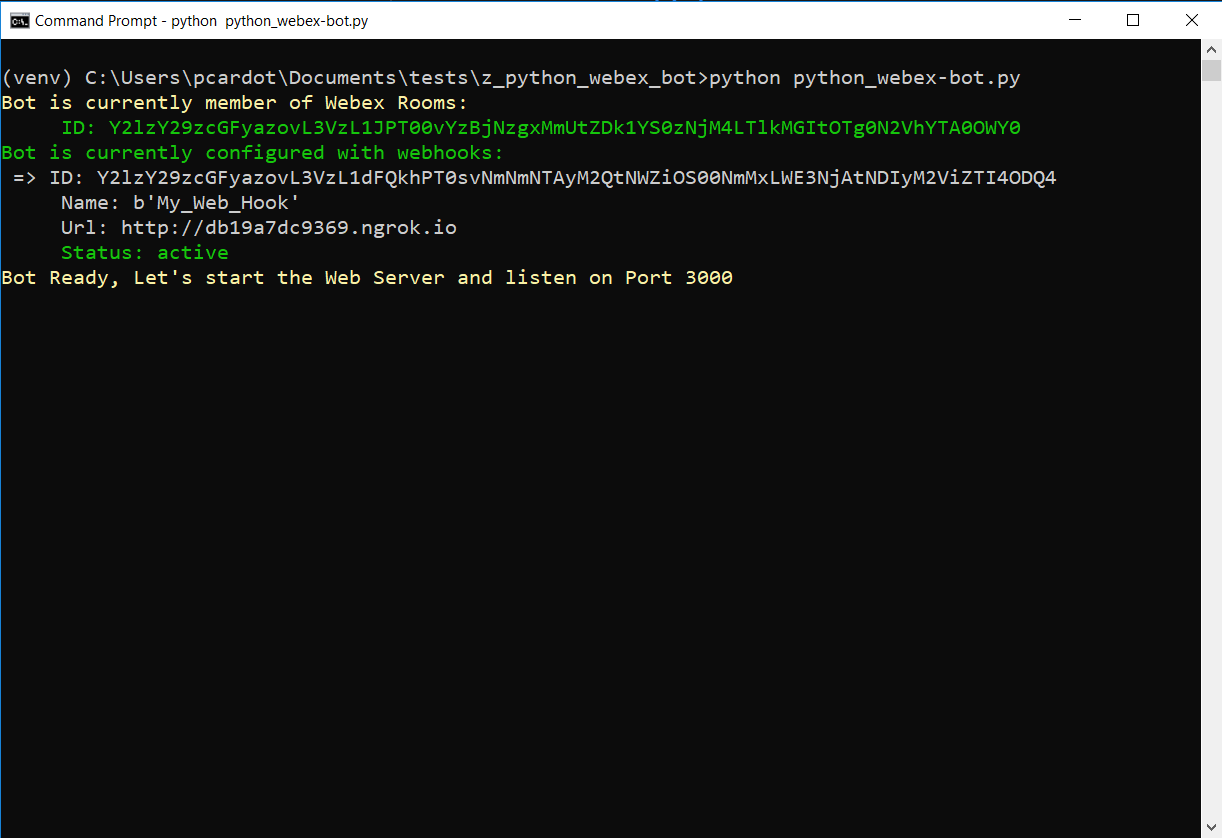
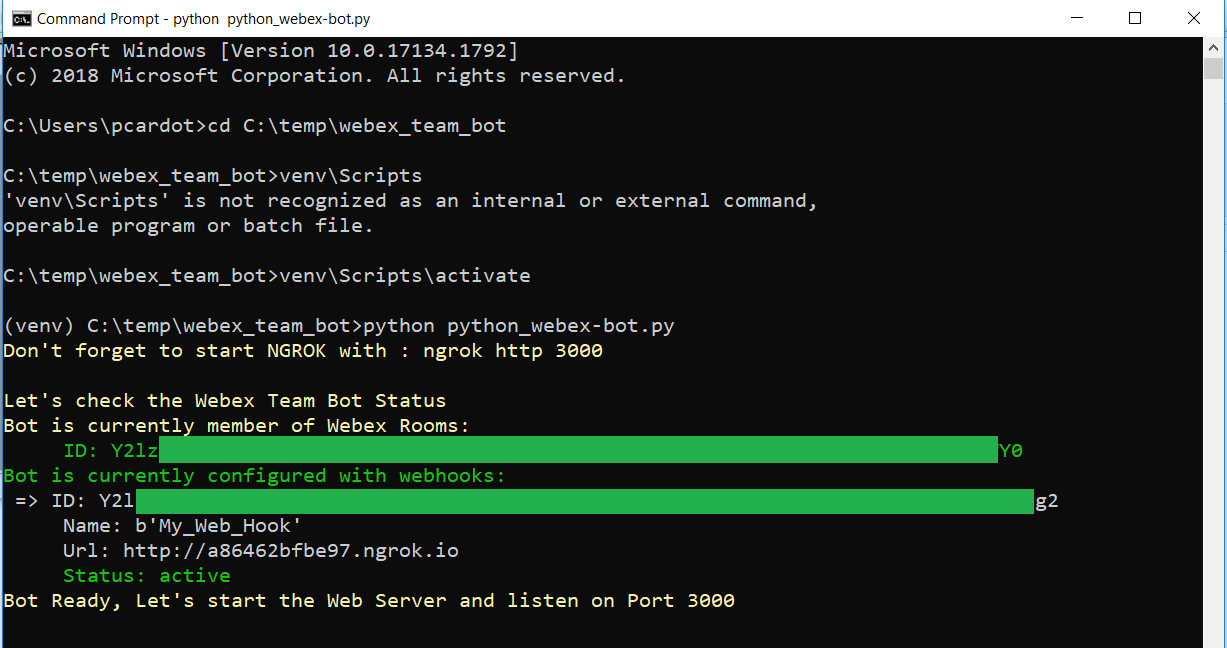
readme update

diff --git a/readme.md b/readme.md
@@ -4,8 +4,10 @@ In this repo you will find instructions for :
 
 - Creating a Webex Team Bot 
 - Adding a Webhook to your Webex Team Bot.
-- Installing a Pedagogic Python Web logic for your bot. Which will help you understand step by step how everything works
-- Interact with your bot thru it's own Webex Team Room.
+- Installing a Pedagogic Python Web logic to your Webex bot. 
+- Interact with your bot through it's own Webex Team Room.
+
+The goal of this article is mainly help you to understand how it work and how to start quickly.
 
 # Create a Webex Team Bot
 
@@ -171,24 +173,32 @@ or
 	python -m venv venv 
 	venv\Scripts\activate
 
-### clone the relay module code
+### clone the bot logic code
 
 Then clone the code :
 
-    git clone 
+    git clone https://github.com/pcardotatgit/Webex_Team_Chat_Bot_Python.git
 
-Change directory to the Relay Module folder:
+Change directory to the bot logic folder:
 
-    cd tr-05-serverless-cybercrime-tracker
+    cd Webex_Team_Chat_Bot_Python
 
 ### Install Python Modules
 
     python -m pip install --upgrade pip
     pip install -r requirements.txt
 
-## Edit config.py
+## Edit the config.py initialization file
 
-**config.py** is an variable file that contains Your Webex Team Bot detail. Edit the file and assign the correct values to the listed variables
+**config.py** is an init file that contains Your Webex Team Bot details. 
+
+Edit this file and assign the correct values to the listed variables
+
+bot_email = "ex:my_python_bot@webex.bot"
+bot_name = "ex:my_python_bot"
+bearer = "THE_Webex_Bot_Bearer_token_here"
+webhook_url = 'targetUrl here ex:http://db19a7dc123.ngrok.io'
+webhook_name = 'ex:My_Web_Hook'
 
 ### Start your bot logic 
 
@@ -196,7 +206,12 @@ Change directory to the Relay Module folder:
 
 ![](img/webex_team_bot-17.png )
 
-As you can see, the application tells you that it is listening on port 5000.	
+As you can see, the application tells you that it is listening on port 3000.	
+You can change that in the python script ( Line 242 )
+
+	httpd = HTTPServer(('localhost', 3000), SimpleHTTPRequestHandler)
+	
+And don't forget to start NGROK on that port.
 
 **Let's test the bot !**
 
